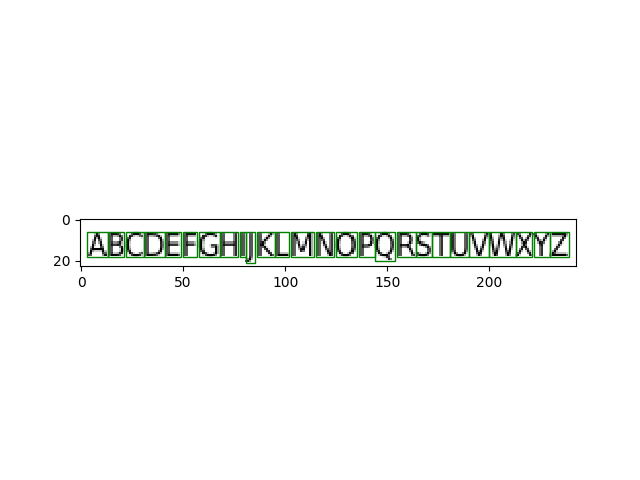
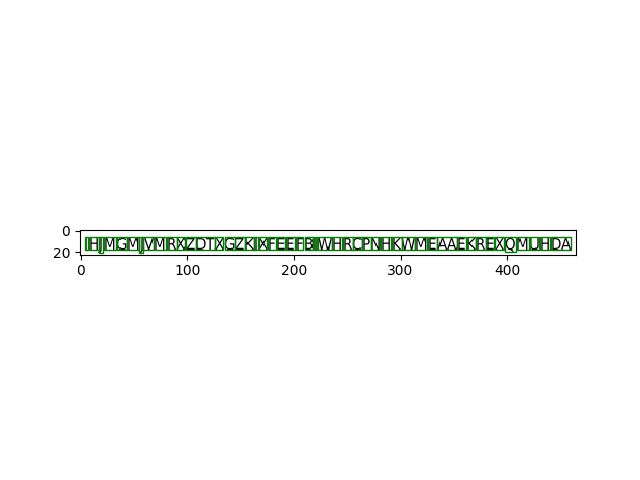
fix

Changed region(s): [[0.0625, 0.4375, 0.9062, 0.5938]]

diff --git a/6lab/main.py b/6lab/main.py
@@ -10,6 +10,7 @@ from matplotlib.patches import Rectangle
 import numpy as np
 import pandas as pd
 from collections.abc import Iterable 
+import random
 
 
 
@@ -143,11 +144,14 @@ def distance(s0:pd.Series, s1:pd.Series):
 
 
 def main():
-    height = [12, 15, 30]
+    height = [15, 24, 30]
     fonts = ["dejavy/DejaVuSansCondensed.ttf", "freefont/FreeMono.ttf", "croscore/Arimo-Italic.ttf"]
 
     threshould = [0.95, 0.6]
     space = 4
+
+    text_line = ''.join([random.choice(alphabet) for i in range(50)])
+    print(text_line)
 
     base_directory = "pics"
     if not os.path.exists(base_directory):
@@ -229,9 +233,9 @@ def main():
 
         fnt = ImageFont.truetype(f"/usr/share/fonts/truetype/{fonts[0]}", h)
 
-        img = Image.new('RGB', (space+fnt.getsize(alphabet)[0]+space, space+h+space), color = WHITE)
+        img = Image.new('RGB', (space+fnt.getsize(text_line)[0]+space, space+h+space), color = WHITE)
         d = ImageDraw.Draw(img)
-        d.text((space, space), alphabet, font=fnt, fill=BLACK)
+        d.text((space, space), text_line, font=fnt, fill=BLACK)
         img.save(f'{directory}/base.png')
 
 
@@ -300,7 +304,7 @@ def main():
             tmp_row = pd.Series()
             for i, val in enumerate(prep_row[:10]):
                 tmp_row = tmp_row.append(pd.Series({i:(prep_row.index[i], np.round(val,2))}))
-            tmp_row.name = alphabet[idx]
+            tmp_row.name = text_line[idx]
             data_to_print = data_to_print.append(tmp_row)
         data_to_print.to_csv(f'{directory}/res_data_{h}.csv')
         print(data_to_print)
